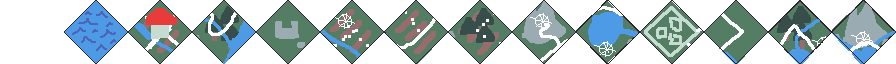
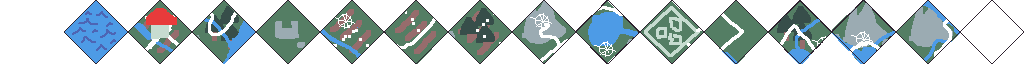
v0.4.275

diff --git a/bleed-server/bin/dark_age/dark_age_scenes.dart b/bleed-server/bin/dark_age/dark_age_scenes.dart
@@ -21,7 +21,8 @@ class DarkAgeScenes {
   late Scene town;
   late Scene plains1;
   late Scene forestB;
-  late Scene mountains1;
+  late Scene mountains_1;
+  late Scene mountains_2;
   late Scene empty;
 
   Future load() async {
@@ -40,7 +41,8 @@ class DarkAgeScenes {
       town = await loadScene('town');
       plains1 = await loadScene('plains-1');
       forestB = await loadScene('forest-b');
-      mountains1 = await loadScene('mountains-1');
+      mountains_1 = await loadScene('mountains-1');
+      mountains_2 = await loadScene('mountains-2');
       empty = Scene(
           name: 'empty',
           characters: [],

diff --git a/bleed-server/bin/engine.dart b/bleed-server/bin/engine.dart
@@ -9,6 +9,7 @@ import 'dark_age/areas/area-farm-b.dart';
 import 'dark_age/areas/area-forest-b.dart';
 import 'dark_age/areas/area-mountain-shrine.dart';
 import 'dark_age/areas/area-mountains-1.dart';
+import 'dark_age/areas/area-mountains-2.dart';
 import 'dark_age/areas/area-plains-1.dart';
 import 'dark_age/areas/area-town.dart';
 import 'dark_age/areas/area_lake.dart';
@@ -62,6 +63,7 @@ class Engine {
       AreaForestB(),
       GameDarkAgeForest(),
       AreaMountains1(),
+      AreaMountains2(),
     ];
     map.add(mapRow1);
     map.add(mapRow2);

diff --git a/bleed-server/bin/dark_age/areas/area-mountains-1.dart b/bleed-server/bin/dark_age/areas/area-mountains-1.dart
@@ -4,5 +4,5 @@ import '../dark_age_scenes.dart';
 import 'dark_age_area.dart';
 
 class AreaMountains1 extends DarkAgeArea {
-  AreaMountains1() : super(darkAgeScenes.mountains1, mapTile: MapTiles.Mountains_1);
+  AreaMountains1() : super(darkAgeScenes.mountains_1, mapTile: MapTiles.Mountains_1);
 }

diff --git a/bleed-server/bin/dark_age/areas/area-mountains-2.dart b/bleed-server/bin/dark_age/areas/area-mountains-2.dart
@@ -1,0 +1,8 @@
+
+import '../../common/map_tiles.dart';
+import '../dark_age_scenes.dart';
+import 'dark_age_area.dart';
+
+class AreaMountains2 extends DarkAgeArea {
+  AreaMountains2() : super(darkAgeScenes.mountains_2, mapTile: MapTiles.Mountains_2);
+}

diff --git a/gamestream_flutter/lib/isometric/ui/dialogs/build_game_dialog_map.dart b/gamestream_flutter/lib/isometric/ui/dialogs/build_game_dialog_map.dart
@@ -84,6 +84,7 @@ final mapTiles = <MapTile> [
    MapTile(1, -1, MapTiles.ForestB),
    MapTile(1, 0, MapTiles.Forest),
    MapTile(1, 1, MapTiles.Mountains_1),
+   MapTile(1, 2, MapTiles.Mountains_2),
 
 ];
 

diff --git a/bleed-common/lib/map_tiles.dart b/bleed-common/lib/map_tiles.dart
@@ -13,4 +13,5 @@ class MapTiles {
   static const Plains_1 = 11;
   static const ForestB = 12;
   static const Mountains_1 = 13;
+  static const Mountains_2 = 14;
 }

diff --git a/bleed-server/bin/common/map_tiles.dart b/bleed-server/bin/common/map_tiles.dart
@@ -13,4 +13,5 @@ class MapTiles {
   static const Plains_1 = 11;
   static const ForestB = 12;
   static const Mountains_1 = 13;
+  static const Mountains_2 = 14;
 }

diff --git a/bleed-common/lib/version.dart b/bleed-common/lib/version.dart
@@ -1,4 +1,4 @@
-const version = 'v0.4.274';
+const version = 'v0.4.275';
 
 
 

diff --git a/bleed-server/bin/common/version.dart b/bleed-server/bin/common/version.dart
@@ -1,4 +1,4 @@
-const version = 'v0.4.274';
+const version = 'v0.4.275';
 
 
 
